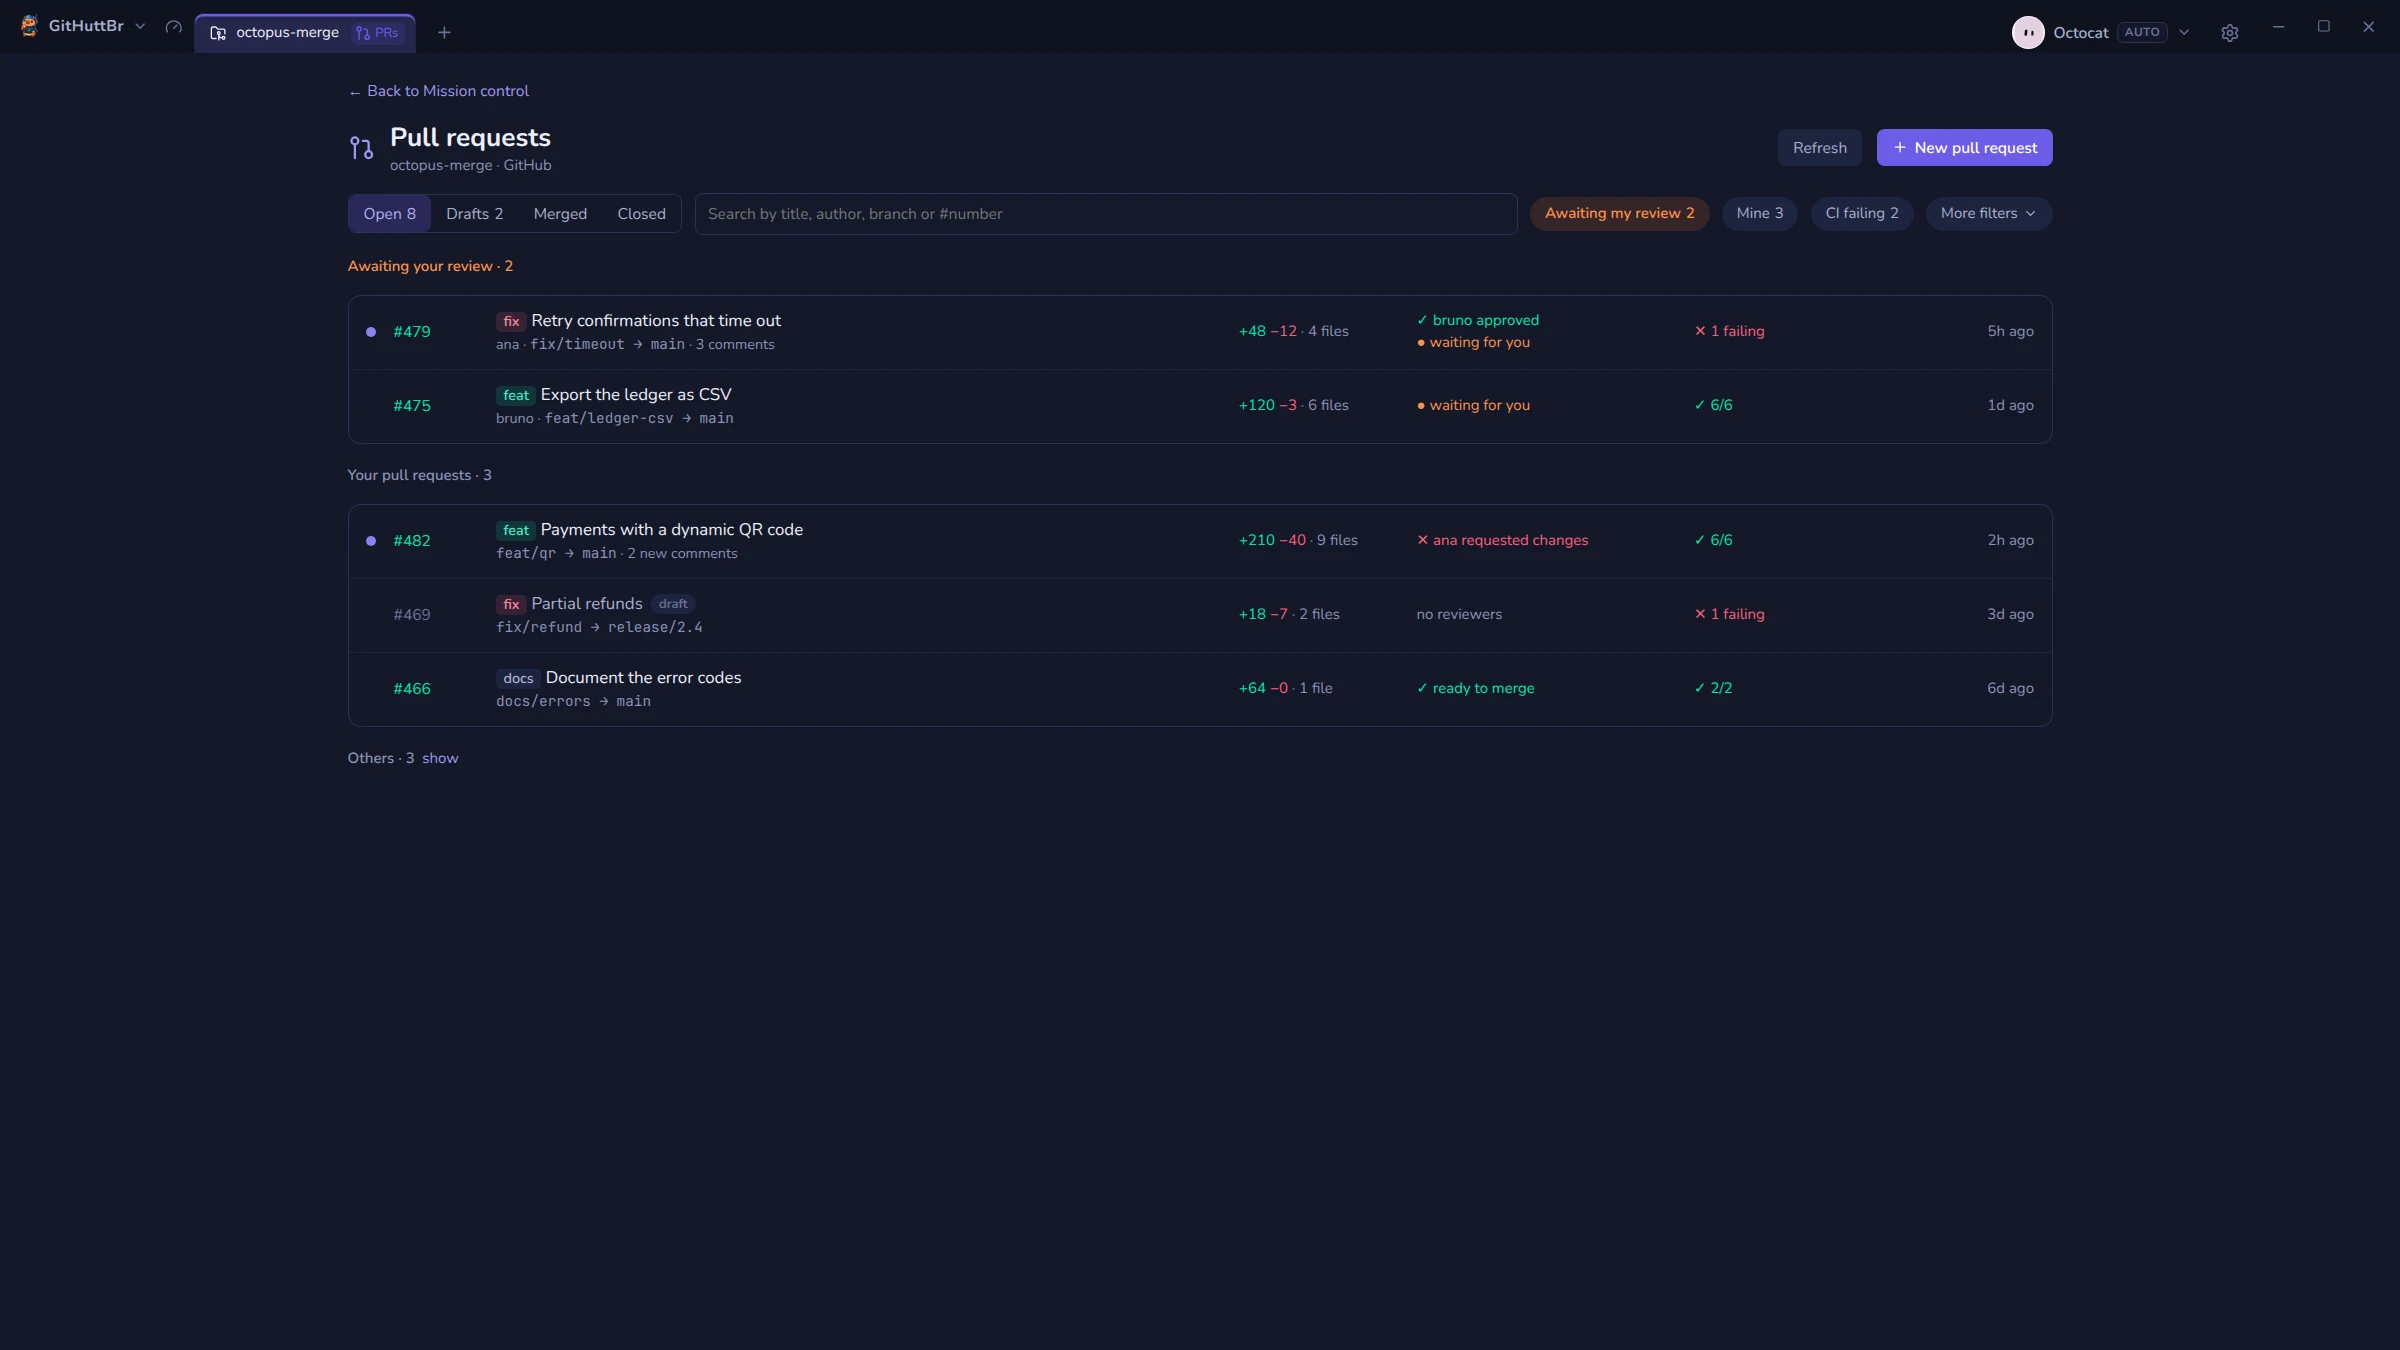
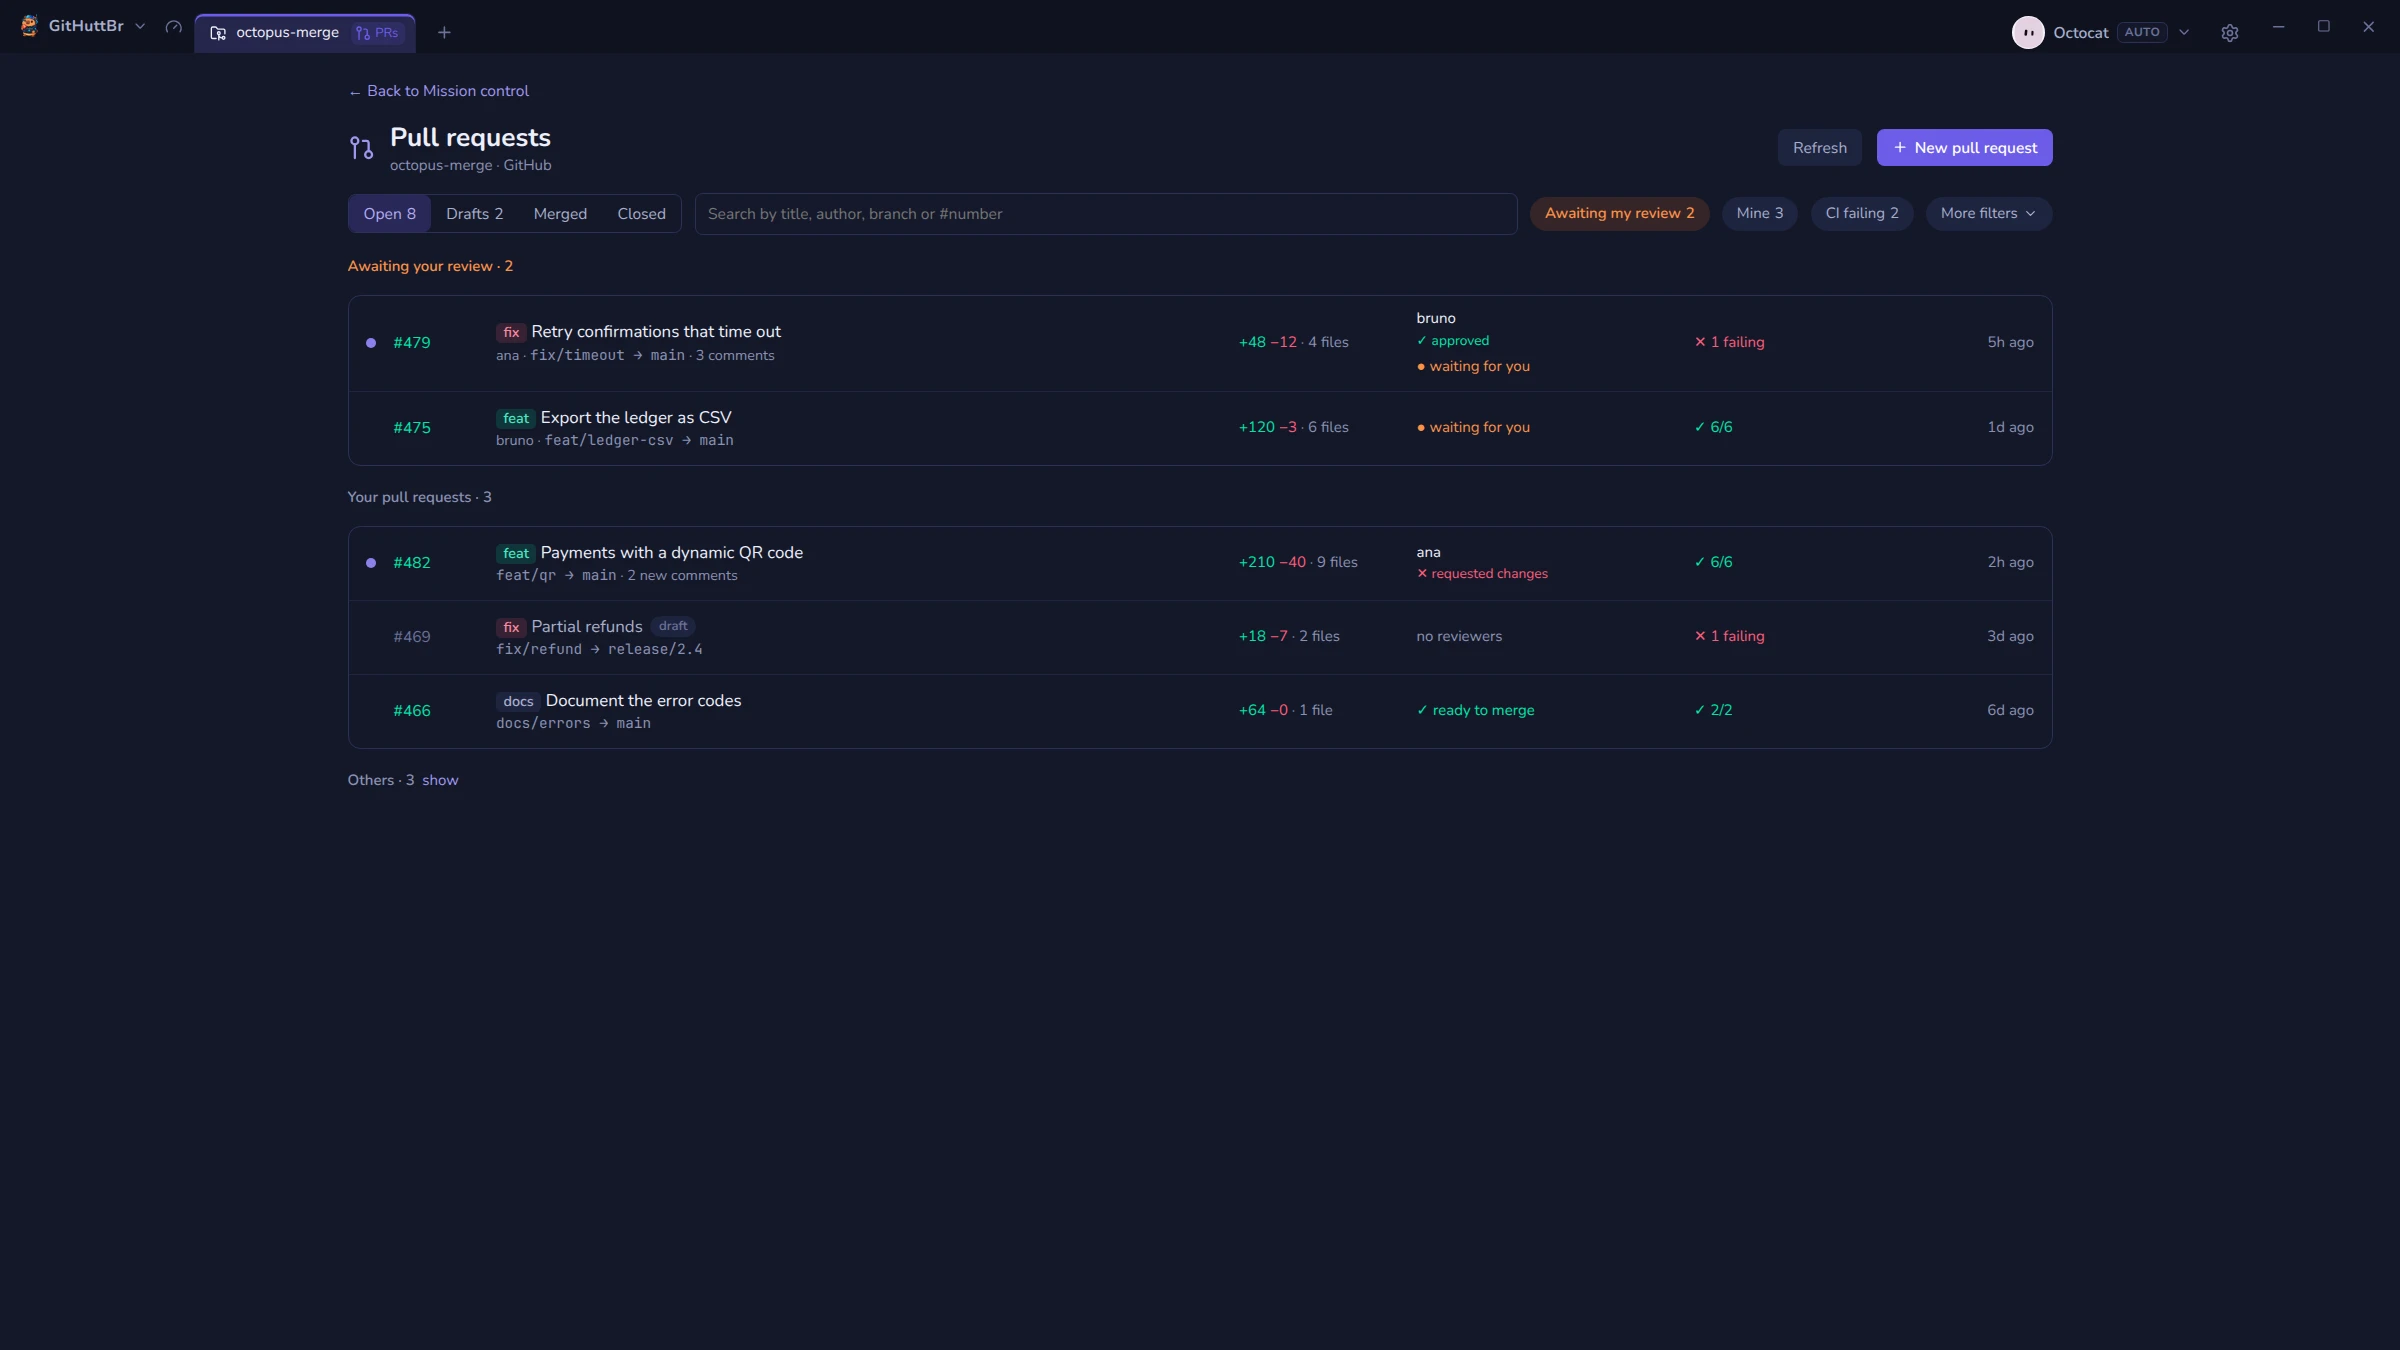
fix(pr-list): reviewer's name on one line, the verdict under it in its colour
a long display name and "requested changes" on one line overflowed the
review column; each reviewer is now their name, then the verdict on the line
below in green, red or muted. the verdict strings drop the name in every
locale

diff --git a/src/renderer/src/components/PrListRow.tsx b/src/renderer/src/components/PrListRow.tsx
@@ -89,13 +89,27 @@ export function PrListRow({
         )}
       </span>
       <span className="prl-review">
-        {review.lines.map((line, i) => (
-          <span key={i} className={`prl-tone-${line.tone}`}>
-            {/* "No reviewers" is a plain remark, not a verdict: no mark in front. */}
-            {line.key !== 'prList.reviewNone' && <span aria-hidden="true">{REVIEW_GLYPH[line.tone]} </span>}
-            {interp(t(line.key), line.vars)}
-          </span>
-        ))}
+        {review.lines.map((line, i) =>
+          // A reviewer's name on its own line, the verdict under it in its colour:
+          // a long display name and "requested changes" on one line did not fit.
+          line.vars.name ? (
+            <span key={i} className="prl-review-item">
+              <span className="prl-review-name" title={line.vars.name}>
+                {line.vars.name}
+              </span>
+              <span className={`prl-review-verdict prl-tone-${line.tone}`}>
+                <span aria-hidden="true">{REVIEW_GLYPH[line.tone]} </span>
+                {interp(t(line.key), line.vars)}
+              </span>
+            </span>
+          ) : (
+            <span key={i} className={`prl-tone-${line.tone}`}>
+              {/* "No reviewers" is a plain remark, not a verdict: no mark in front. */}
+              {line.key !== 'prList.reviewNone' && <span aria-hidden="true">{REVIEW_GLYPH[line.tone]} </span>}
+              {interp(t(line.key), line.vars)}
+            </span>
+          )
+        )}
         {review.more > 0 && <span className="prl-tone-muted">{interp(t('prList.reviewMore'), { n: review.more })}</span>}
       </span>
       <span className="prl-ci" title={pr.ci ? ciTitle(pr.ci, pr.ciCounts, t) : undefined}>

diff --git a/src/renderer/src/i18n/uk.ts b/src/renderer/src/i18n/uk.ts
@@ -5958,10 +5958,10 @@ export const uk: Dict = {
   'prList.files': "Файлів: {n}",
   'prList.filesOne': "Файлів: {n}",
   'prList.sizeTitle': "Додано рядків: {additions}, видалено: {deletions}, файлів: {files}",
-  'prList.reviewApproved': "{name} схвалив(ла)",
-  'prList.reviewChanges': "{name} попросив(ла) змін",
+  'prList.reviewApproved': "схвалив(ла)",
+  'prList.reviewChanges': "попросив(ла) змін",
   'prList.reviewWaitingYou': "чекає на вас",
-  'prList.reviewWaiting': "чекає на {name}",
+  'prList.reviewWaiting': "очікується",
   'prList.reviewReady': "готовий до злиття",
   'prList.reviewNone': "немає рецензентів",
   'prList.reviewMore': "ще {n}",

diff --git a/src/renderer/src/i18n/ru.ts b/src/renderer/src/i18n/ru.ts
@@ -5958,10 +5958,10 @@ export const ru: Dict = {
   'prList.files': "Файлов: {n}",
   'prList.filesOne': "Файлов: {n}",
   'prList.sizeTitle': "Добавлено строк: {additions}, удалено: {deletions}, файлов: {files}",
-  'prList.reviewApproved': "{name} одобрил(а)",
-  'prList.reviewChanges': "{name} запросил(а) изменения",
+  'prList.reviewApproved': "одобрил(а)",
+  'prList.reviewChanges': "запросил(а) изменения",
   'prList.reviewWaitingYou': "ждёт вас",
-  'prList.reviewWaiting': "ждёт {name}",
+  'prList.reviewWaiting': "ожидается",
   'prList.reviewReady': "готов к слиянию",
   'prList.reviewNone': "нет ревьюеров",
   'prList.reviewMore': "ещё {n}",

diff --git a/src/renderer/src/styles.css b/src/renderer/src/styles.css
@@ -23408,6 +23408,10 @@ button.pck-chip:hover { color: var(--text-0); }
 .prl-del { color: var(--red); }
 .prl-review { display: flex; flex-direction: column; gap: 2px; min-width: 0; font-size: 12px; }
 .prl-review > span { overflow: hidden; text-overflow: ellipsis; white-space: nowrap; }
+.prl-review { gap: 6px; }
+.prl-review-item { display: flex; flex-direction: column; gap: 1px; min-width: 0; }
+.prl-review-name { color: var(--text-0); overflow: hidden; text-overflow: ellipsis; white-space: nowrap; }
+.prl-review-verdict { font-size: 11px; overflow: hidden; text-overflow: ellipsis; white-space: nowrap; }
 .prl-tone-green { color: var(--green); }
 .prl-tone-red { color: var(--red); }
 .prl-tone-yellow { color: color-mix(in srgb, var(--yellow) 80%, var(--text-0)); }

diff --git a/src/renderer/src/i18n/he.ts b/src/renderer/src/i18n/he.ts
@@ -5959,10 +5959,10 @@ export const he: Dict = {
   'prList.files': "{n} קבצים",
   'prList.filesOne': "{n} קובץ",
   'prList.sizeTitle': "{additions} שורות נוספו ו-{deletions} הוסרו, ב-{files} קבצים",
-  'prList.reviewApproved': "{name} אישר/ה",
-  'prList.reviewChanges': "{name} ביקש/ה שינויים",
+  'prList.reviewApproved': "אישר/ה",
+  'prList.reviewChanges': "ביקש/ה שינויים",
   'prList.reviewWaitingYou': "ממתין לך",
-  'prList.reviewWaiting': "ממתין ל-{name}",
+  'prList.reviewWaiting': "ממתין/ה",
   'prList.reviewReady': "מוכן למיזוג",
   'prList.reviewNone': "אין סוקרים",
   'prList.reviewMore': "+{n} נוספים",

diff --git a/src/renderer/src/i18n/ar.ts b/src/renderer/src/i18n/ar.ts
@@ -5960,10 +5960,10 @@ export const ar: Dict = {
   'prList.files': "الملفات: {n}",
   'prList.filesOne': "الملفات: {n}",
   'prList.sizeTitle': "أُضيف {additions} سطرًا وحُذف {deletions}، في {files} ملفات",
-  'prList.reviewApproved': "وافق {name}",
-  'prList.reviewChanges': "طلب {name} تغييرات",
+  'prList.reviewApproved': "وافق",
+  'prList.reviewChanges': "طلب تغييرات",
   'prList.reviewWaitingYou': "بانتظارك",
-  'prList.reviewWaiting': "بانتظار {name}",
+  'prList.reviewWaiting': "بالانتظار",
   'prList.reviewReady': "جاهز للدمج",
   'prList.reviewNone': "لا مراجعين",
   'prList.reviewMore': "+{n} أخرى",

diff --git a/src/renderer/src/i18n/ja.ts b/src/renderer/src/i18n/ja.ts
@@ -5894,10 +5894,10 @@ export const ja: Dict = {
   'prList.files': "{n} ファイル",
   'prList.filesOne': "{n} ファイル",
   'prList.sizeTitle': "{files} ファイルで {additions} 行追加、{deletions} 行削除",
-  'prList.reviewApproved': "{name} が承認",
-  'prList.reviewChanges': "{name} が変更を要求",
+  'prList.reviewApproved': "承認",
+  'prList.reviewChanges': "変更を要求",
   'prList.reviewWaitingYou': "あなたを待っています",
-  'prList.reviewWaiting': "{name} を待っています",
+  'prList.reviewWaiting': "待機中",
   'prList.reviewReady': "マージ可能",
   'prList.reviewNone': "レビュアーなし",
   'prList.reviewMore': "ほか {n} 件",

diff --git a/src/renderer/src/i18n/fr.ts b/src/renderer/src/i18n/fr.ts
@@ -5905,10 +5905,10 @@ export const fr: Dict = {
   'prList.files': "{n} fichiers",
   'prList.filesOne': "{n} fichier",
   'prList.sizeTitle': "{additions} lignes ajoutées et {deletions} supprimées, dans {files} fichiers",
-  'prList.reviewApproved': "{name} a approuvé",
-  'prList.reviewChanges': "{name} a demandé des modifications",
+  'prList.reviewApproved': "a approuvé",
+  'prList.reviewChanges': "a demandé des modifications",
   'prList.reviewWaitingYou': "vous attend",
-  'prList.reviewWaiting': "attend {name}",
+  'prList.reviewWaiting': "en attente",
   'prList.reviewReady': "prête à fusionner",
   'prList.reviewNone': "aucun relecteur",
   'prList.reviewMore': "+{n} de plus",

diff --git a/src/renderer/src/i18n/de.ts b/src/renderer/src/i18n/de.ts
@@ -5965,10 +5965,10 @@ export const de: Dict = {
   'prList.files': "{n} Dateien",
   'prList.filesOne': "{n} Datei",
   'prList.sizeTitle': "{additions} Zeilen hinzugefügt und {deletions} entfernt, in {files} Dateien",
-  'prList.reviewApproved': "{name} hat genehmigt",
-  'prList.reviewChanges': "{name} hat Änderungen angefordert",
+  'prList.reviewApproved': "genehmigt",
+  'prList.reviewChanges': "Änderungen angefordert",
   'prList.reviewWaitingYou': "wartet auf dich",
-  'prList.reviewWaiting': "wartet auf {name}",
+  'prList.reviewWaiting': "ausstehend",
   'prList.reviewReady': "bereit zum Mergen",
   'prList.reviewNone': "keine Reviewer",
   'prList.reviewMore': "+{n} weitere",

diff --git a/src/renderer/src/i18n/nl.ts b/src/renderer/src/i18n/nl.ts
@@ -5965,10 +5965,10 @@ export const nl: Dict = {
   'prList.files': "{n} bestanden",
   'prList.filesOne': "{n} bestand",
   'prList.sizeTitle': "{additions} regels toegevoegd en {deletions} verwijderd, in {files} bestanden",
-  'prList.reviewApproved': "{name} keurde goed",
-  'prList.reviewChanges': "{name} vroeg om wijzigingen",
+  'prList.reviewApproved': "goedgekeurd",
+  'prList.reviewChanges': "wijzigingen gevraagd",
   'prList.reviewWaitingYou': "wacht op jou",
-  'prList.reviewWaiting': "wacht op {name}",
+  'prList.reviewWaiting': "wacht nog",
   'prList.reviewReady': "klaar om te mergen",
   'prList.reviewNone': "geen reviewers",
   'prList.reviewMore': "+{n} meer",

diff --git a/src/renderer/src/i18n/tr.ts b/src/renderer/src/i18n/tr.ts
@@ -5901,10 +5901,10 @@ export const tr: Dict = {
   'prList.files': "{n} dosya",
   'prList.filesOne': "{n} dosya",
   'prList.sizeTitle': "{files} dosyada {additions} satır eklendi, {deletions} satır silindi",
-  'prList.reviewApproved': "{name} onayladı",
-  'prList.reviewChanges': "{name} değişiklik istedi",
+  'prList.reviewApproved': "onayladı",
+  'prList.reviewChanges': "değişiklik istedi",
   'prList.reviewWaitingYou': "seni bekliyor",
-  'prList.reviewWaiting': "{name} bekleniyor",
+  'prList.reviewWaiting': "bekleniyor",
   'prList.reviewReady': "birleştirmeye hazır",
   'prList.reviewNone': "inceleyen yok",
   'prList.reviewMore': "+{n} daha",

diff --git a/src/renderer/src/i18n/ko.ts b/src/renderer/src/i18n/ko.ts
@@ -5954,10 +5954,10 @@ export const ko: Dict = {
   'prList.files': "파일 {n}개",
   'prList.filesOne': "파일 {n}개",
   'prList.sizeTitle': "파일 {files}개에서 {additions}줄 추가, {deletions}줄 삭제",
-  'prList.reviewApproved': "{name} 승인",
-  'prList.reviewChanges': "{name} 변경 요청",
+  'prList.reviewApproved': "승인",
+  'prList.reviewChanges': "변경 요청",
   'prList.reviewWaitingYou': "내 리뷰 대기 중",
-  'prList.reviewWaiting': "{name} 대기 중",
+  'prList.reviewWaiting': "대기 중",
   'prList.reviewReady': "머지 준비 완료",
   'prList.reviewNone': "리뷰어 없음",
   'prList.reviewMore': "외 {n}개",
